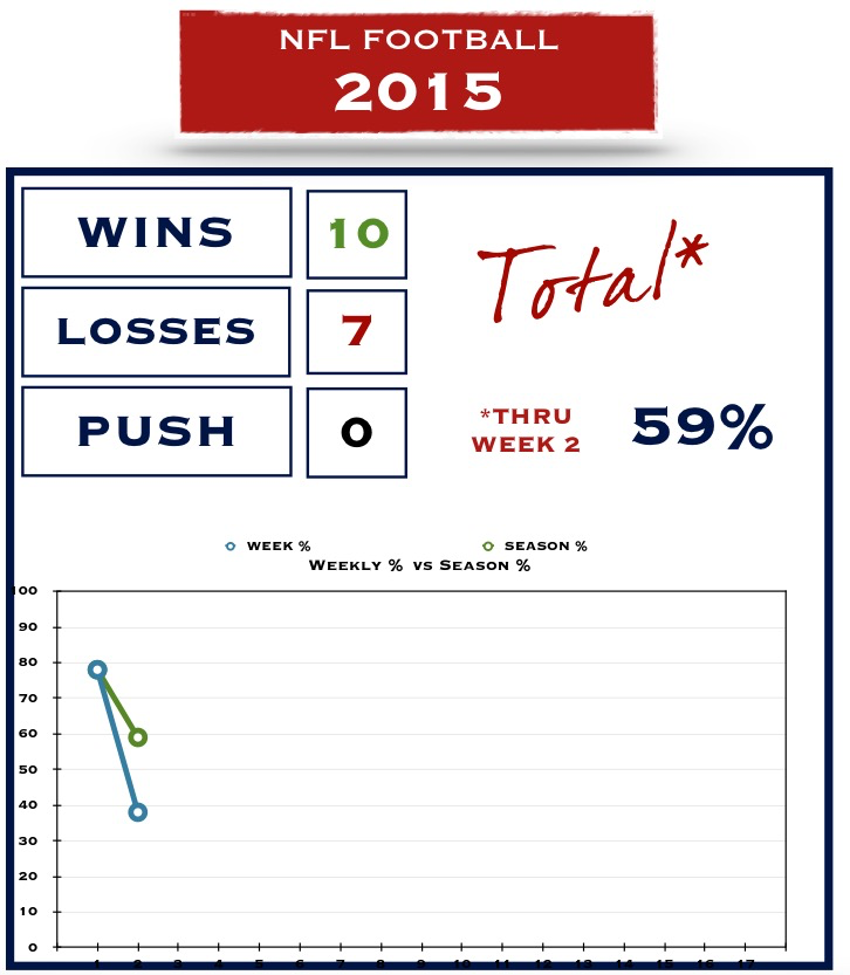
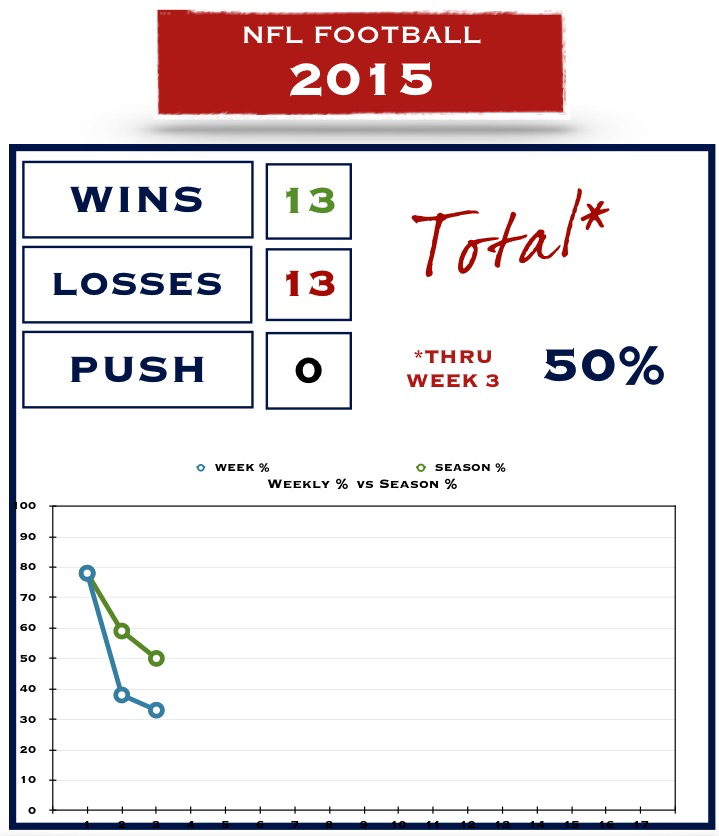
Updated as of Week 3 in NFL

diff --git a/performance.php b/performance.php
@@ -66,7 +66,7 @@
 		    </div>
 
 		    <p style="text-align: center; color: #000040;">
-		    	INFORMATION ACCURATE AS OF: <span style="color:#c4001d;">September 22, 2015</span>
+		    	INFORMATION ACCURATE AS OF: <span style="color:#c4001d;">October 1, 2015</span>
 		    </p>
 
 <!-- 		    <h2 style="margin-bottom:0px;"><b>2015 NFL SEASON</b></h2>
@@ -81,10 +81,10 @@
 					<img class="fancybox" src="images/nfl_preseason_2015_small.png" data-big="images/nfl_preseason_2015_large.png"/>
 		    	</p>
 		    </div> -->
-		    <h2 style="margin-bottom:0px;"><b>2015 NFL WEEK 2</b></h2>
+		    <h2 style="margin-bottom:0px;"><b>2015 NFL WEEK 3</b></h2>
 		    <div>
 		    	<p style="text-align: center;">
-					<img class="fancybox" src="images/nfl_performance_2015_week2_small.png" data-big="images/nfl_performance_2015_week2_large.png"/>
+					<img class="fancybox" src="images/nfl_performance_2015_week3_small.png" data-big="images/nfl_performance_2015_week3_large.png"/>
 		    	</p>
 		    </div>
 <!-- 		    <h2 style="margin-bottom:0px;"><b>2015 NFL SUPERCONTEST</b></h2>

diff --git a/nonmember.php b/nonmember.php
@@ -55,14 +55,14 @@
 	    	<img src="images/divider.png" class="divider">
 	    </div>
 
-	    <h2><center><b><u>
+	    <h2><center><b>
 	    	Join us for the 2015-2016 season!
 	    	<br><br>
 	    	Follow @TheZenPicks for day-to-day updates and progress
 	    	<br><br>
 	    	Vegas takes a little bit back in Week 2 with some inexplicable results but The Zen Picks
 	    	still show a strong performance for the season at 59%
-	    </u></b></center></h2>
+	    </b></center></h2>
 
 	    <!-- DIVIDER SPIRAL -->
 	    <div style="text-align: center;">
